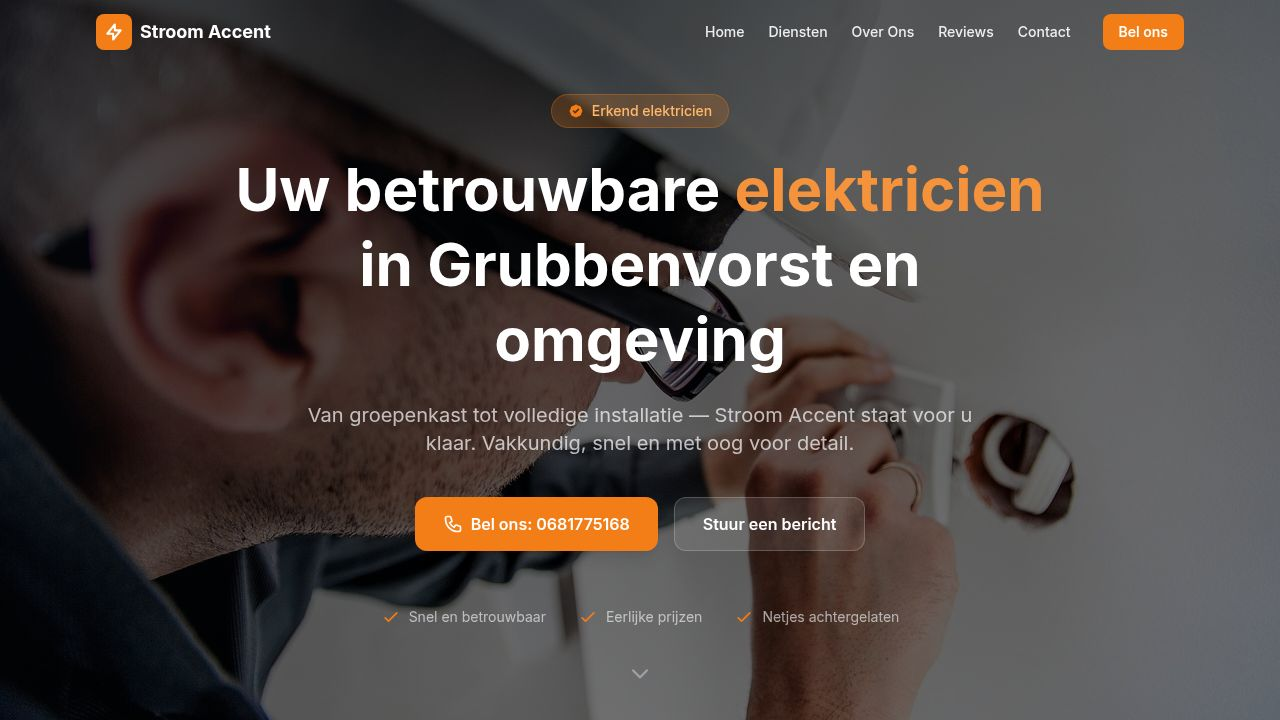
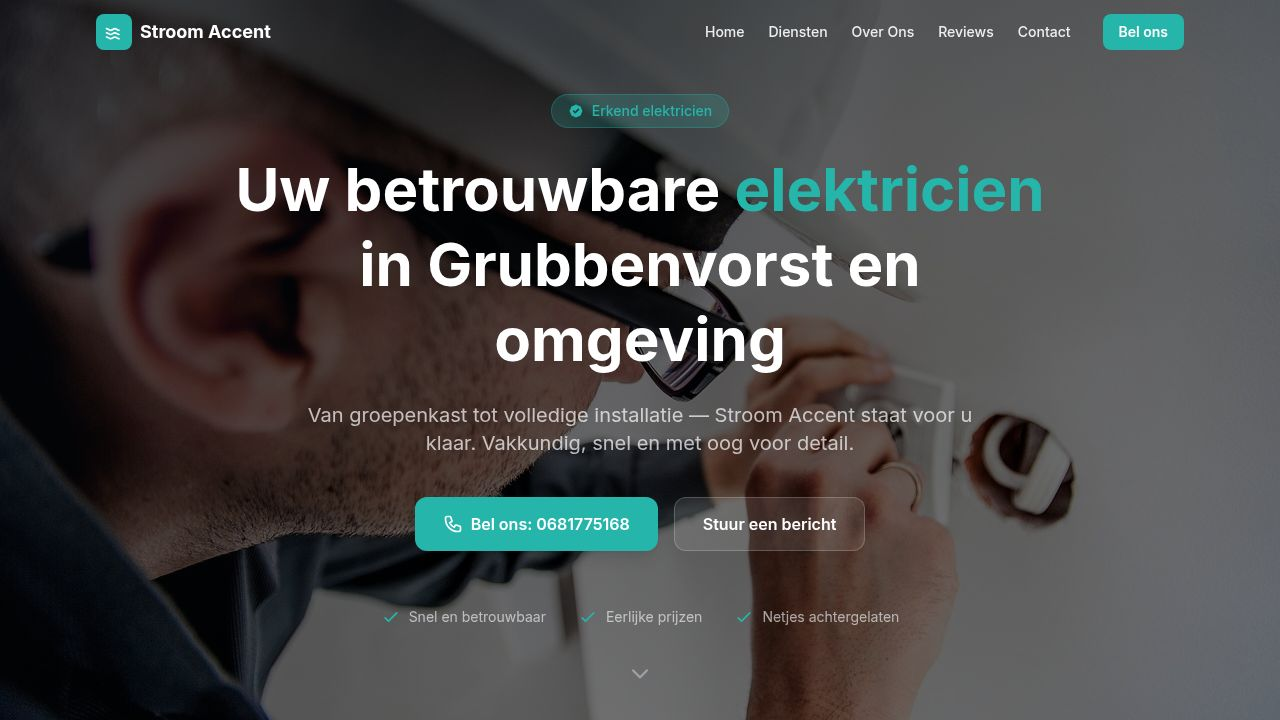
Update site branding and design to match new company style guide
Apply new logo, color scheme, and imagery across the application, including updates to CSS variables, SVG assets, and component styles in App.tsx.

Replit-Commit-Author: Agent
Replit-Commit-Session-Id: 4ab955cd-a4ca-42f2-9320-33e749a15a44
Replit-Commit-Checkpoint-Type: full_checkpoint
Replit-Commit-Event-Id: 7d088258-ab03-4d41-b4cb-afea1d243e24
Replit-Commit-Screenshot-Url: https://storage.googleapis.com/screenshot-production-us-central1/c2685d48-efaa-4d7a-adfc-085e6f619f5a/4ab955cd-a4ca-42f2-9320-33e749a15a44/evBGoz5
Replit-Helium-Checkpoint-Created: true

diff --git a/artifacts/stroom-accent/src/App.tsx b/artifacts/stroom-accent/src/App.tsx
@@ -123,7 +123,9 @@ export default function App() {
             <a href="#home" className="flex items-center gap-2">
               <div className="w-9 h-9 rounded-lg bg-primary flex items-center justify-center">
                 <svg className="w-5 h-5 text-white" fill="none" stroke="currentColor" viewBox="0 0 24 24">
-                  <path strokeLinecap="round" strokeLinejoin="round" strokeWidth={2.5} d="M13 10V3L4 14h7v7l9-11h-7z" />
+                  <path strokeLinecap="round" strokeLinejoin="round" strokeWidth={2} d="M3 8c2 0 3 2 5 2s3-2 5-2 3 2 5 2" />
+                  <path strokeLinecap="round" strokeLinejoin="round" strokeWidth={2} d="M3 13c2 0 3 2 5 2s3-2 5-2 3 2 5 2" />
+                  <path strokeLinecap="round" strokeLinejoin="round" strokeWidth={2} d="M3 18c2 0 3 2 5 2s3-2 5-2 3 2 5 2" />
                 </svg>
               </div>
               <span className={`font-bold text-lg transition-colors ${scrolled ? "text-foreground" : "text-white"}`}>
@@ -219,12 +221,12 @@ export default function App() {
             <svg className="w-4 h-4" fill="currentColor" viewBox="0 0 20 20">
               <path fillRule="evenodd" d="M6.267 3.455a3.066 3.066 0 001.745-.723 3.066 3.066 0 013.976 0 3.066 3.066 0 001.745.723 3.066 3.066 0 012.812 2.812c.051.643.304 1.254.723 1.745a3.066 3.066 0 010 3.976 3.066 3.066 0 00-.723 1.745 3.066 3.066 0 01-2.812 2.812 3.066 3.066 0 00-1.745.723 3.066 3.066 0 01-3.976 0 3.066 3.066 0 00-1.745-.723 3.066 3.066 0 01-2.812-2.812 3.066 3.066 0 00-.723-1.745 3.066 3.066 0 010-3.976 3.066 3.066 0 00.723-1.745 3.066 3.066 0 012.812-2.812zm7.44 5.252a1 1 0 00-1.414-1.414L9 10.586 7.707 9.293a1 1 0 00-1.414 1.414l2 2a1 1 0 001.414 0l4-4z" clipRule="evenodd" />
             </svg>
-            <span className="text-sm font-medium text-orange-300">Erkend elektricien</span>
+            <span className="text-sm font-medium text-primary">Erkend elektricien</span>
           </div>
 
           <h1 className="text-4xl sm:text-5xl lg:text-6xl font-bold text-white leading-tight mb-6">
             Uw betrouwbare{" "}
-            <span style={{ color: "hsl(28 90% 60%)" }}>elektricien</span>
+            <span className="text-primary">elektricien</span>
             <br />
             in Grubbenvorst en omgeving
           </h1>
@@ -352,34 +354,12 @@ export default function App() {
               </div>
             </div>
             <div className="relative">
-              <div
-                className="rounded-2xl overflow-hidden h-80 lg:h-96 flex items-center justify-center"
-                style={{ background: "linear-gradient(135deg, hsl(215 40% 18%), hsl(215 35% 12%))" }}
-              >
-                <div className="text-center text-white/80 p-8">
-                  <div className="w-20 h-20 rounded-2xl bg-primary/20 border border-primary/30 flex items-center justify-center mx-auto mb-4">
-                    <svg className="w-10 h-10 text-primary" fill="none" stroke="currentColor" viewBox="0 0 24 24">
-                      <path strokeLinecap="round" strokeLinejoin="round" strokeWidth={1.5} d="M13 10V3L4 14h7v7l9-11h-7z" />
-                    </svg>
-                  </div>
-                  <div className="text-2xl font-bold text-white">Stroom Accent</div>
-                  <div className="text-white/60 mt-1">Grubbenvorst & omgeving</div>
-                  <div className="mt-6 flex flex-col gap-2 text-sm text-white/60">
-                    <div className="flex items-center gap-2 justify-center">
-                      <svg className="w-4 h-4" fill="none" stroke="currentColor" viewBox="0 0 24 24">
-                        <path strokeLinecap="round" strokeLinejoin="round" strokeWidth={2} d="M17.657 16.657L13.414 20.9a1.998 1.998 0 01-2.827 0l-4.244-4.243a8 8 0 1111.314 0z" />
-                        <path strokeLinecap="round" strokeLinejoin="round" strokeWidth={2} d="M15 11a3 3 0 11-6 0 3 3 0 016 0z" />
-                      </svg>
-                      Monseigneur Moorslaan 16, Grubbenvorst
-                    </div>
-                    <div className="flex items-center gap-2 justify-center">
-                      <svg className="w-4 h-4" fill="none" stroke="currentColor" viewBox="0 0 24 24">
-                        <path strokeLinecap="round" strokeLinejoin="round" strokeWidth={2} d="M3 5a2 2 0 012-2h3.28a1 1 0 01.948.684l1.498 4.493a1 1 0 01-.502 1.21l-2.257 1.13a11.042 11.042 0 005.516 5.516l1.13-2.257a1 1 0 011.21-.502l4.493 1.498a1 1 0 01.684.949V19a2 2 0 01-2 2h-1C9.716 21 3 14.284 3 6V5z" />
-                      </svg>
-                      0681775168
-                    </div>
-                  </div>
-                </div>
+              <div className="rounded-2xl overflow-hidden h-80 lg:h-96">
+                <img
+                  src={`${import.meta.env.BASE_URL}images/bus.png`}
+                  alt="Stroom Accent bedrijfswagen"
+                  className="w-full h-full object-cover"
+                />
               </div>
               <div className="absolute -bottom-4 -right-4 w-24 h-24 rounded-2xl bg-primary flex items-center justify-center shadow-lg">
                 <div className="text-center text-white">
@@ -588,7 +568,9 @@ export default function App() {
             <div className="flex items-center gap-2">
               <div className="w-8 h-8 rounded-lg bg-primary flex items-center justify-center">
                 <svg className="w-4 h-4 text-white" fill="none" stroke="currentColor" viewBox="0 0 24 24">
-                  <path strokeLinecap="round" strokeLinejoin="round" strokeWidth={2.5} d="M13 10V3L4 14h7v7l9-11h-7z" />
+                  <path strokeLinecap="round" strokeLinejoin="round" strokeWidth={2} d="M3 8c2 0 3 2 5 2s3-2 5-2 3 2 5 2" />
+                  <path strokeLinecap="round" strokeLinejoin="round" strokeWidth={2} d="M3 13c2 0 3 2 5 2s3-2 5-2 3 2 5 2" />
+                  <path strokeLinecap="round" strokeLinejoin="round" strokeWidth={2} d="M3 18c2 0 3 2 5 2s3-2 5-2 3 2 5 2" />
                 </svg>
               </div>
               <span className="font-bold text-white">Stroom Accent</span>

diff --git a/artifacts/stroom-accent/src/index.css b/artifacts/stroom-accent/src/index.css
@@ -82,27 +82,27 @@
   --sidebar: 215 30% 96%;
   --sidebar-foreground: 215 25% 15%;
   --sidebar-border: 215 20% 88%;
-  --sidebar-primary: 28 90% 52%;
+  --sidebar-primary: 176 65% 43%;
   --sidebar-primary-foreground: 0 0% 100%;
-  --sidebar-accent: 215 30% 93%;
-  --sidebar-accent-foreground: 215 25% 15%;
-  --sidebar-ring: 28 90% 52%;
+  --sidebar-accent: 176 20% 93%;
+  --sidebar-accent-foreground: 176 40% 15%;
+  --sidebar-ring: 176 65% 43%;
   --popover: 0 0% 100%;
   --popover-foreground: 215 25% 15%;
   --popover-border: 215 20% 88%;
-  --primary: 28 90% 52%;
+  --primary: 176 65% 43%;
   --primary-foreground: 0 0% 100%;
-  --secondary: 215 20% 93%;
-  --secondary-foreground: 215 25% 20%;
-  --muted: 215 20% 95%;
+  --secondary: 176 30% 93%;
+  --secondary-foreground: 176 40% 20%;
+  --muted: 176 20% 95%;
   --muted-foreground: 215 15% 50%;
-  --accent: 28 90% 52%;
+  --accent: 176 65% 43%;
   --accent-foreground: 0 0% 100%;
   --destructive: 0 72% 51%;
   --destructive-foreground: 0 0% 100%;
   --input: 215 20% 88%;
-  --ring: 28 90% 52%;
-  --chart-1: 28 90% 52%;
+  --ring: 176 65% 43%;
+  --chart-1: 176 65% 43%;
   --chart-2: 215 70% 50%;
   --chart-3: 160 60% 45%;
   --chart-4: 350 70% 55%;
@@ -155,27 +155,27 @@
   --sidebar: 215 30% 8%;
   --sidebar-foreground: 215 15% 88%;
   --sidebar-border: 215 20% 20%;
-  --sidebar-primary: 28 90% 52%;
+  --sidebar-primary: 176 65% 43%;
   --sidebar-primary-foreground: 0 0% 100%;
-  --sidebar-accent: 215 25% 18%;
-  --sidebar-accent-foreground: 215 15% 88%;
-  --sidebar-ring: 28 90% 52%;
+  --sidebar-accent: 176 25% 18%;
+  --sidebar-accent-foreground: 176 15% 88%;
+  --sidebar-ring: 176 65% 43%;
   --popover: 215 28% 13%;
   --popover-foreground: 215 15% 90%;
   --popover-border: 215 20% 22%;
-  --primary: 28 90% 52%;
+  --primary: 176 65% 43%;
   --primary-foreground: 0 0% 100%;
-  --secondary: 215 25% 18%;
-  --secondary-foreground: 215 15% 85%;
-  --muted: 215 25% 16%;
+  --secondary: 176 25% 18%;
+  --secondary-foreground: 176 15% 85%;
+  --muted: 176 20% 16%;
   --muted-foreground: 215 15% 55%;
-  --accent: 28 90% 52%;
+  --accent: 176 65% 43%;
   --accent-foreground: 0 0% 100%;
   --destructive: 0 72% 51%;
   --destructive-foreground: 0 0% 100%;
   --input: 215 20% 25%;
-  --ring: 28 90% 52%;
-  --chart-1: 28 90% 52%;
+  --ring: 176 65% 43%;
+  --chart-1: 176 65% 43%;
   --chart-2: 215 70% 60%;
   --chart-3: 160 60% 50%;
   --chart-4: 350 70% 60%;
